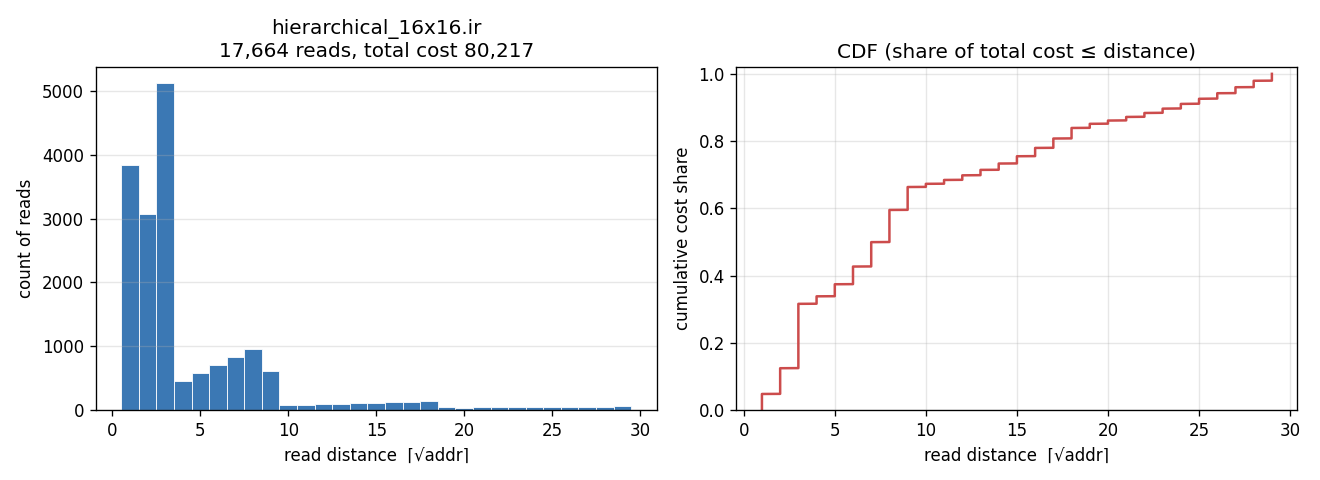
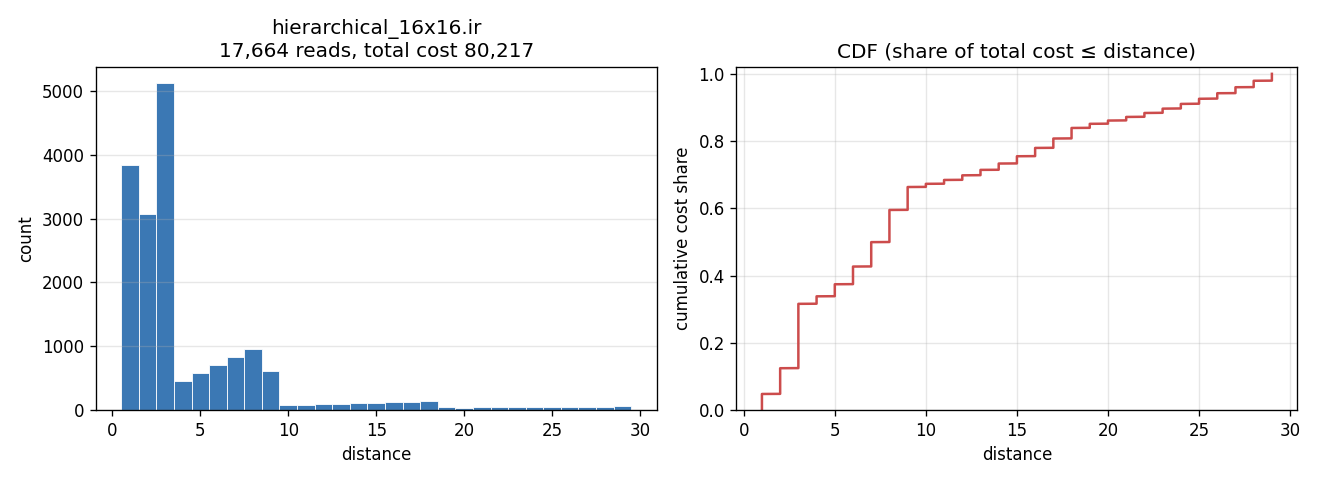
matmul: simplify plot axis labels to distance / count

Changed region(s): [[0.0, 0.375, 0.0311, 0.625], [0.6833, 0.9375, 0.8386, 0.9688], [0.2174, 0.9375, 0.3727, 0.9688]]

diff --git a/matmul/plot_access_distances.py b/matmul/plot_access_distances.py
@@ -63,8 +63,8 @@ def plot_one(ir_path: Path, out_path: Path) -> int:
     edges = np.arange(distances.min(), distances.max() + 2) - 0.5
     ax_h.hist(distances, bins=edges, color="#3b78b4",
               edgecolor="white", linewidth=0.5)
-    ax_h.set_xlabel("read distance  ⌈√addr⌉")
-    ax_h.set_ylabel("count of reads")
+    ax_h.set_xlabel("distance")
+    ax_h.set_ylabel("count")
     ax_h.set_title(f"{ir_path.name}\n{n_reads:,} reads, total cost {total_cost:,}")
     ax_h.grid(axis="y", alpha=0.3)
 
@@ -72,7 +72,7 @@ def plot_one(ir_path: Path, out_path: Path) -> int:
     sorted_d = np.sort(distances)
     cumulative_cost = np.cumsum(sorted_d) / total_cost
     ax_c.plot(sorted_d, cumulative_cost, color="#cc4c4c", linewidth=1.5)
-    ax_c.set_xlabel("read distance  ⌈√addr⌉")
+    ax_c.set_xlabel("distance")
     ax_c.set_ylabel("cumulative cost share")
     ax_c.set_title("CDF (share of total cost ≤ distance)")
     ax_c.set_ylim(0, 1.02)
